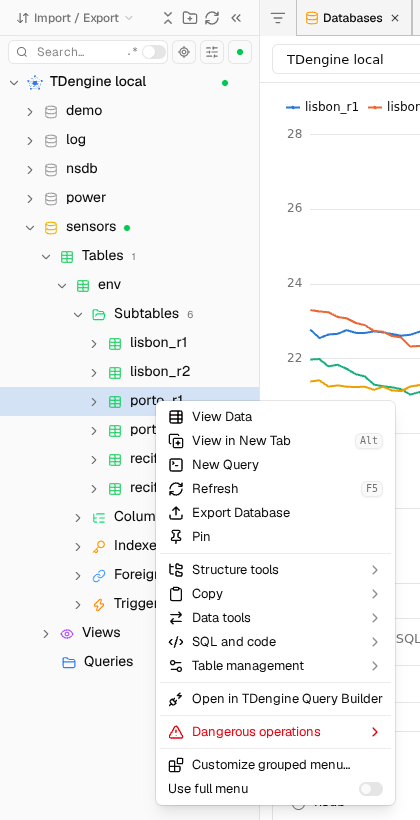
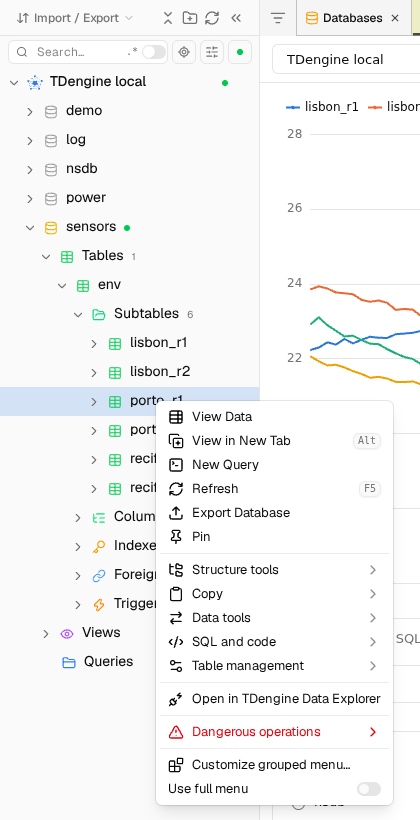
Rename project to tdengine-data-explorer-dbx-plugin
The plugin is now "TDengine Data Explorer": new package name, manifest
ID (com.example.tdengine-data-explorer-dbx-plugin), labels and
translations, source/homepage pointing at the renamed repository, and
screenshots recaptured with the new name.

diff --git a/src/App.svelte b/src/App.svelte
@@ -238,7 +238,7 @@
       await host.storage.set(`state:${stateKey}`, snapshot);
       await host.storage.set("state-index", [stateKey, ...index]);
     } catch (e) {
-      console.warn("Could not save the query builder state", e); // best effort, queries are unaffected
+      console.warn("Could not save the data explorer state", e); // best effort, queries are unaffected
     }
   }
 
@@ -266,7 +266,7 @@
   });
 </script>
 
-<svelte:head><title>TDengine Query Builder</title></svelte:head>
+<svelte:head><title>TDengine Data Explorer</title></svelte:head>
 
 <main class="app">
   <header class="toolbar">

diff --git a/README.md b/README.md
@@ -1,12 +1,12 @@
-# TDengine Query Builder for DBX
+# TDengine Data Explorer for DBX
 
-An InfluxDB 2 Data Explorer–style query builder for [DBX](https://github.com/t8y2/dbx) TDengine connections: pick a database and supertable, narrow it with cascading tag filters, choose fields and aggregate functions, and chart the result as a time series.
+A [DBX](https://github.com/t8y2/dbx) plugin modeled on the InfluxDB 2 Data Explorer, for TDengine connections: pick a database and supertable, narrow it with cascading tag filters, choose fields and aggregate functions, and chart the result as a time series.
 
-![Query builder: cascading site and tbname filters, mean temperature per child table over the last 6 hours](docs/screenshots/builder.png)
+![TDengine Data Explorer: cascading site and tbname filters, mean temperature per child table over the last 6 hours](docs/screenshots/builder.png)
 
 | SQL tab | Dark theme | Table context menu |
 | --- | --- | --- |
-| ![Generated TDengine SQL in the editable SQL tab](docs/screenshots/sql.png) | ![The same chart in DBX's dark theme](docs/screenshots/dark.png) | ![Open in TDengine Query Builder on a child table](docs/screenshots/context-menu.png) |
+| ![Generated TDengine SQL in the editable SQL tab](docs/screenshots/sql.png) | ![The same chart in DBX's dark theme](docs/screenshots/dark.png) | ![Open in TDengine Data Explorer on a child table](docs/screenshots/context-menu.png) |
 
 New to DBX plugins? [`docs/dbx-plugin-system.md`](docs/dbx-plugin-system.md) explains how they are packaged, sandboxed and allowed to read data. Coding agents start at [`AGENTS.md`](AGENTS.md).
 
@@ -14,7 +14,7 @@ New to DBX plugins? [`docs/dbx-plugin-system.md`](docs/dbx-plugin-system.md) exp
 - **Aggregate panel:** window (`auto` keeps every series under the row cap, ~360 points like InfluxDB), fill, one series per child table / per tag / merged, max series, and mean, median ≈, min, max, sum, count, first, last, spread, stddev.
 - **Views:** graph (line, step, points; crosshair tooltip with every series), single stat, table.
 - **SQL tab:** shows the generated SQL; edit it or write your own read-only query (Ctrl+Enter).
-- **Entry points:** the app toolbar / command palette, and **Open in TDengine Query Builder** on a table's context menu. A child table opens as its supertable filtered to that `tbname`.
+- **Entry points:** the app toolbar / command palette, and **Open in TDengine Data Explorer** on a table's context menu. A child table opens as its supertable filtered to that `tbname`.
 
 ## How it works
 
@@ -61,4 +61,4 @@ The integration test expects `taosBenchmark -y -d power` data. `dbx-plugin dev` 
 
 ## Before publishing
 
-`com.example.tdengine-query-builder` and publisher `example` are placeholders; set your own ID, publisher, `source` and `homepage` in `manifest.json` (and the contribution IDs that repeat the plugin ID) before the first release. `.github/workflows/plugin-release.yml` builds the unsigned candidate for DBX Store review.
+`com.example.tdengine-data-explorer-dbx-plugin` and publisher `example` are placeholders; set your own ID and publisher in `manifest.json` (and the contribution IDs that repeat the plugin ID) before the first release. `.github/workflows/plugin-release.yml` builds the unsigned candidate for DBX Store review.

diff --git a/AGENTS.md b/AGENTS.md
@@ -4,7 +4,7 @@ Guide for coding agents working on this repository. Read `README.md` for what th
 
 ## What this is
 
-A frontend-only DBX plugin (Svelte 5 + Vite 7, ECharts 6) that builds TDengine 3.x SQL from InfluxDB-style cards and charts the result. Every query runs through `window.dbxPlugin.queryData` on a TDengine connection DBX already has open. There is no sidecar and no driver in this repository.
+TDengine Data Explorer (`tdengine-data-explorer-dbx-plugin`): a frontend-only DBX plugin (Svelte 5 + Vite 7, ECharts 6) that builds TDengine 3.x SQL from InfluxDB-style cards and charts the result. Every query runs through `window.dbxPlugin.queryData` on a TDengine connection DBX already has open. There is no sidecar and no driver in this repository.
 
 ## Layout
 
@@ -62,7 +62,7 @@ Screenshots in `docs/screenshots/` were captured this way at 1920×1080; refresh
 
 ## Releasing
 
-- `com.example.tdengine-query-builder` and publisher `example` are placeholders; replace them (and the contribution IDs that repeat the plugin ID, plus `source`/`homepage`) before the first public release.
+- `com.example.tdengine-data-explorer-dbx-plugin` and publisher `example` are placeholders; replace them (and the contribution IDs that repeat the plugin ID) before the first store release.
 - Bump `version` in `manifest.json` for every release; installed versions are immutable.
 - A GitHub release runs `.github/workflows/plugin-release.yml`, which builds the unsigned candidate for DBX Store review and signing.
 
